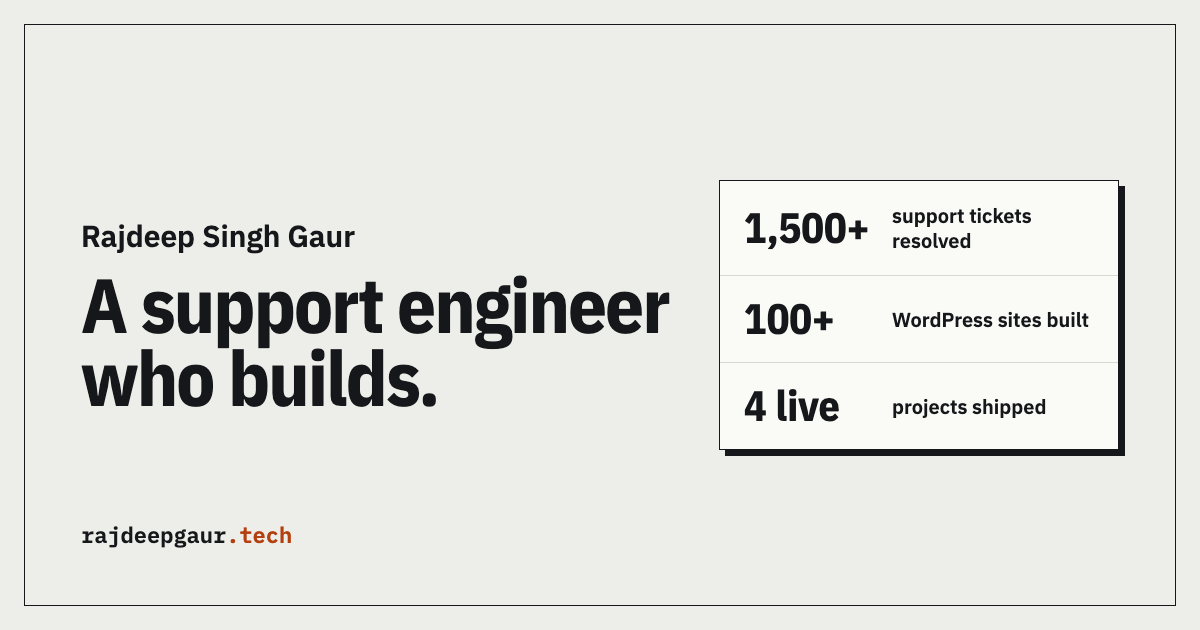
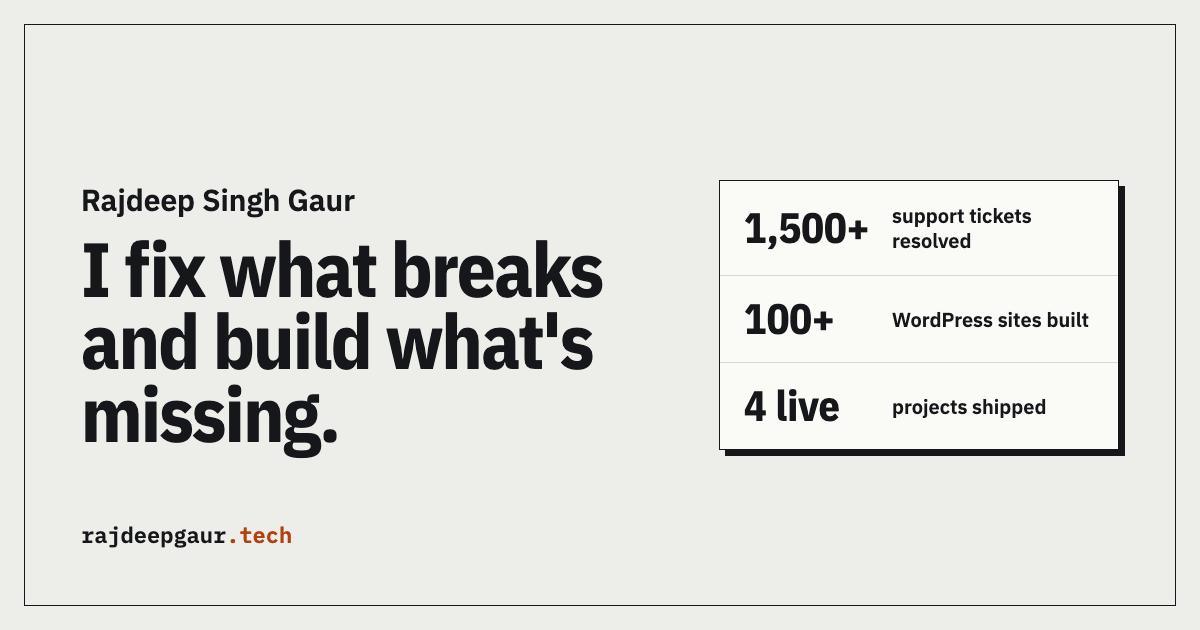
Neutral positioning: new hero, footer, Skills order and SEO copy
- Hero h1 "I fix what breaks and build what's missing." with new long/short subheads
- Incsub bullet 2 reworded; Skills rows reordered (words unchanged)
- New footer on every page: "Open an issue." link to the repo's Issues page
  and "Still learning, still shipping."
- Title, meta description, og:image:alt and JSON-LD jobTitle updated; OG image rebuilt

Changed region(s): [[0.0617, 0.3016, 0.555, 0.7238]]

diff --git a/src/site.ts b/src/site.ts
@@ -6,8 +6,8 @@ export const site = {
   linkedin: 'https://www.linkedin.com/in/rajdeep-singh-gaur-793015227/',
   github: 'https://github.com/rajdeepgaur',
   seo: {
-    title: 'Rajdeep Singh Gaur — A support engineer who builds',
+    title: "Rajdeep Singh Gaur — I fix what breaks and build what's missing",
     description:
-      'Technical support engineer and web developer. 1,500+ support tickets resolved, 100+ WordPress sites built, 4 live projects including a WordPress.org plugin.',
+      'Technical support engineer and full-stack developer. 1,500+ support tickets resolved, 100+ WordPress sites built, 4 live projects including a WordPress.org plugin.',
   },
 } as const;
